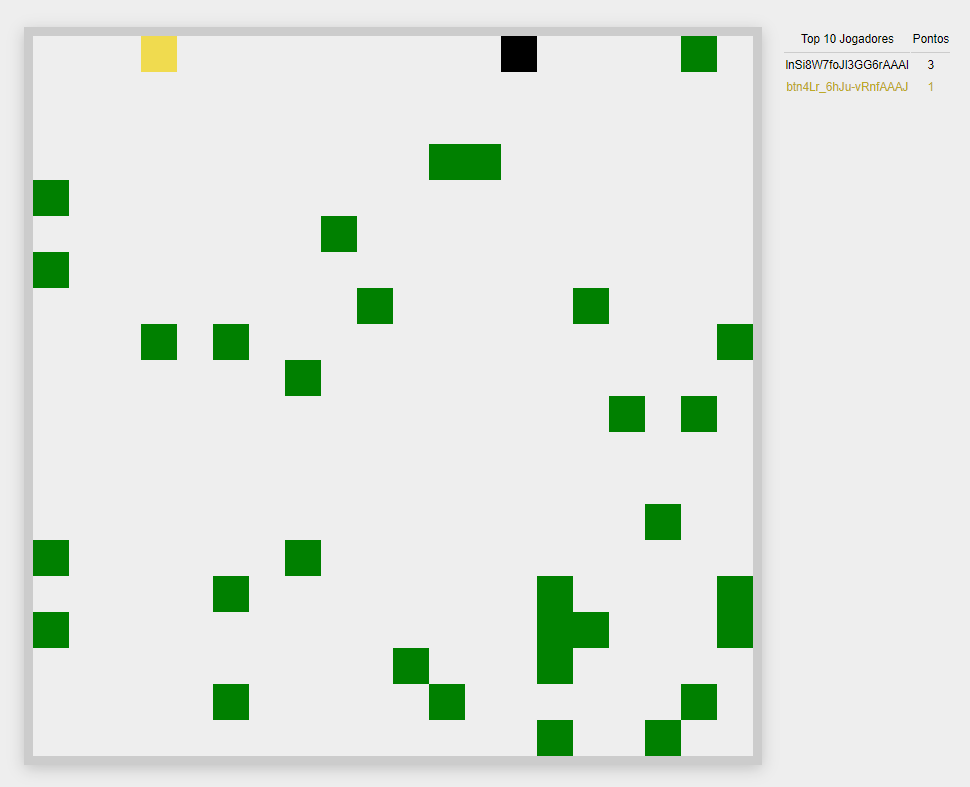
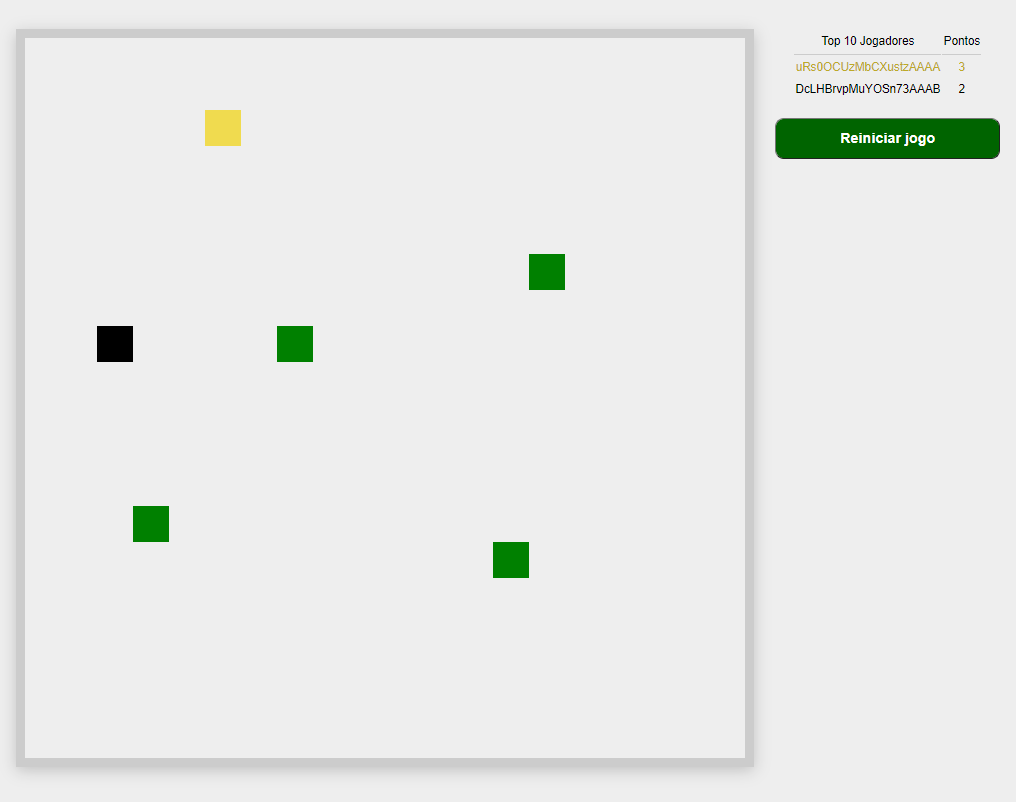
Readme atualizado mas funcionalidade de reiniciar o jogo não funciona.

diff --git a/public/index.html b/public/index.html
@@ -136,17 +136,9 @@
             keyboardListener.registerPlayerId(playerId);
             keyboardListener.subscribe(game.movePlayer);
             keyboardListener.subscribe((command) => {
-                socket.emit('move-player', command)
+                socket.emit('move-player', command);
             });
         });
-
-        /* Codigo que reinicia o jogo */
-        document.querySelector('#bthRestart').addEventListener('click', sendMessage);
-
-        function sendMessage(){
-            game.restart();
-        }
-
 
         socket.on('add-player', (command) => {
             console.log(`> Receiving ${command.type} -> ${command.playerId}`);
@@ -158,6 +150,11 @@
             game.removePlayer(command);
         });
 
+        socket.on('restart', (command) => {
+            console.log(`> Restart game!`);
+            game.restart();
+        });
+
         socket.on('move-player', (command) => {
             console.log(`> Move ${command.type} -> ${command.playerId}`);
             const playerId = socket.id;
@@ -166,6 +163,7 @@
                 game.movePlayer(command);
             }
         });
+
 
         socket.on('add-fruit', (command) => {
             console.log(`> Add fruit ${command.type} -> ${command.fruitId}`);

diff --git a/public/keyboard-listener.js b/public/keyboard-listener.js
@@ -25,7 +25,16 @@ export default function createkeyboardListener(document) {
         }
     }
 
-    document.addEventListener('keydown', handleKeydonw);
+    addEventListener('keydown', handleKeydonw);
+
+    addEventListener('click', handleButtonRestart);
+
+    function handleButtonRestart() {
+        const command = {
+            type: 'restart',
+        }
+        notifyAll(command);
+    }
 
     function handleKeydonw(event){
         const keyPressed = event.key;
@@ -42,6 +51,6 @@ export default function createkeyboardListener(document) {
     return {
         subscribe,
         unsubscribeAll,
-        registerPlayerId
+        registerPlayerId,
     }
 }

diff --git a/server.js b/server.js
@@ -36,6 +36,12 @@ sockets.on('connection', (socket) => {
 
       game.movePlayer(command);
    });
+
+   socket.on('restart', () => {
+      console.log(`> Restart game`);
+      game.restart();
+   });
+
 });
 
 server.listen(3000, () => {

diff --git a/public/game.js b/public/game.js
@@ -23,7 +23,6 @@ export default function createGame() {
         }
         notifyAll({
             type: 'restart',
-            state
         });
     }
 

diff --git a/README.md b/README.md
@@ -1,17 +1,19 @@
 <p align="center">
+  <img alt="animation" src=".github/game.gif" width="100%">
+</p>
+
+<p align="center">
   <a href="#-projeto">Projeto</a>&nbsp;&nbsp;&nbsp;|&nbsp;&nbsp;&nbsp; 
   <a href="#-como-rodar">Como rodar</a>&nbsp;&nbsp;&nbsp;|&nbsp;&nbsp;&nbsp;
   <a href="#-como-contribuir">Como contribuir</a>&nbsp;&nbsp;&nbsp;
-  </p>
-
+ </p>
 
 <br>
-
 
 # Snake Game
 
 <p align="center">
-  <img alt="animation-rotate" src=".github/image.PNG" width="100%">
+  <img alt="game multiplayer" src=".github/image.PNG" width="100%">
 </p>
 
 ## 🚀 Tecnologias
